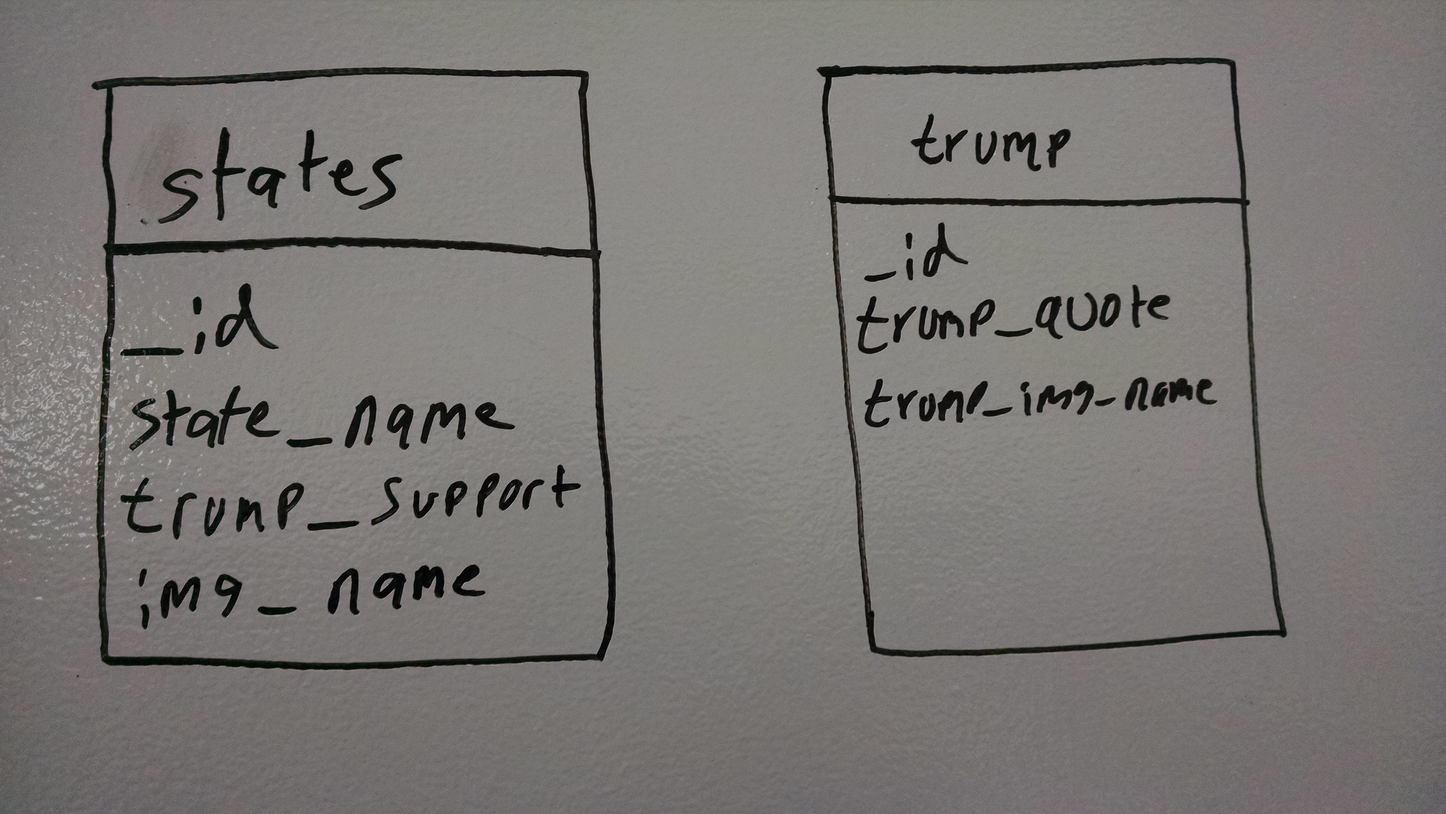
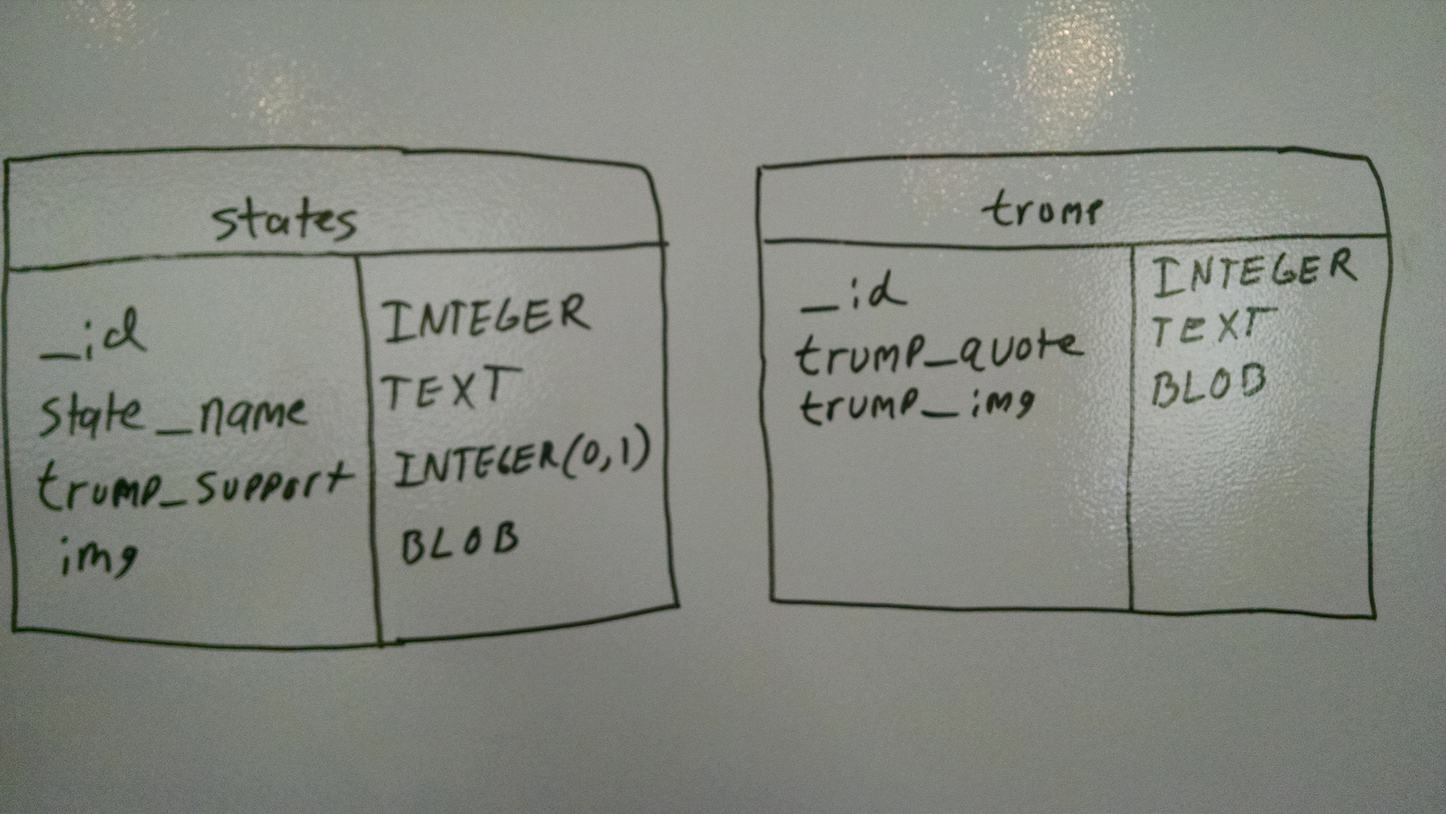
adds new erd, and new search method

diff --git a/app/src/main/java/com/companyname/secondproject/DataBaseHelper.java b/app/src/main/java/com/companyname/secondproject/DataBaseHelper.java
@@ -302,13 +302,41 @@ public class DataBaseHelper extends SQLiteOpenHelper{
         return cursor;
     }
 
-    public Cursor searchStatesByTrumpSupport(String query){
-        // ToDo: figure out how to do this search:
+    public Cursor getListItemsFromList(String listName) {
         SQLiteDatabase db = this.getReadableDatabase();
+        //where clause:
+        String selections = "list_name = ?";
+
+        String[] selectionArgs = new String[] {
+                listName
+        };
+
         Cursor cursor = db.query(STATES_TABLE, // a. table
                 COL_NAMES, // b. column names
-                COL_STATE_NAME + " LIKE ?", // c. selections
-                new String[]{"%" + query + "%"}, // d. selections args
+                selections, // c. selections
+                selectionArgs, // d. selections args
+                null, // e. group by
+                null, // f. having
+                null, // g. order by
+                null); // h. limit
+        return cursor;
+    }
+
+    public Cursor searchStatesByTrumpSupport(){
+        // ToDo: figure out how to do this search:
+        SQLiteDatabase db = this.getReadableDatabase();
+
+        //where clause:
+        String selections = "trump_support = ?";
+
+        String[] selectionArgs = new String[] {
+                String.valueOf(1)
+        };
+
+        Cursor cursor = db.query(STATES_TABLE, // a. table
+                COL_NAMES, // b. column names
+                selections, // c. selections
+                selectionArgs, // d. selections args
                 null, // e. group by
                 null, // f. having
                 null, // g. order by

diff --git a/app/src/main/java/com/companyname/secondproject/MainActivity.java b/app/src/main/java/com/companyname/secondproject/MainActivity.java
@@ -55,6 +55,7 @@ public class MainActivity extends AppCompatActivity {
             String query = intent.getStringExtra(SearchManager.QUERY);
 
             Cursor cursor = DataBaseHelper.getInstance(MainActivity.this).searchStatesByName(query);
+            //Cursor cursor = DataBaseHelper.getInstance(MainActivity.this).searchStatesByTrumpSupport();
             listView = (ListView)findViewById(R.id.list_view);
             if (cursorAdapter == null) {
                 cursorAdapter = new SimpleCursorAdapter(
